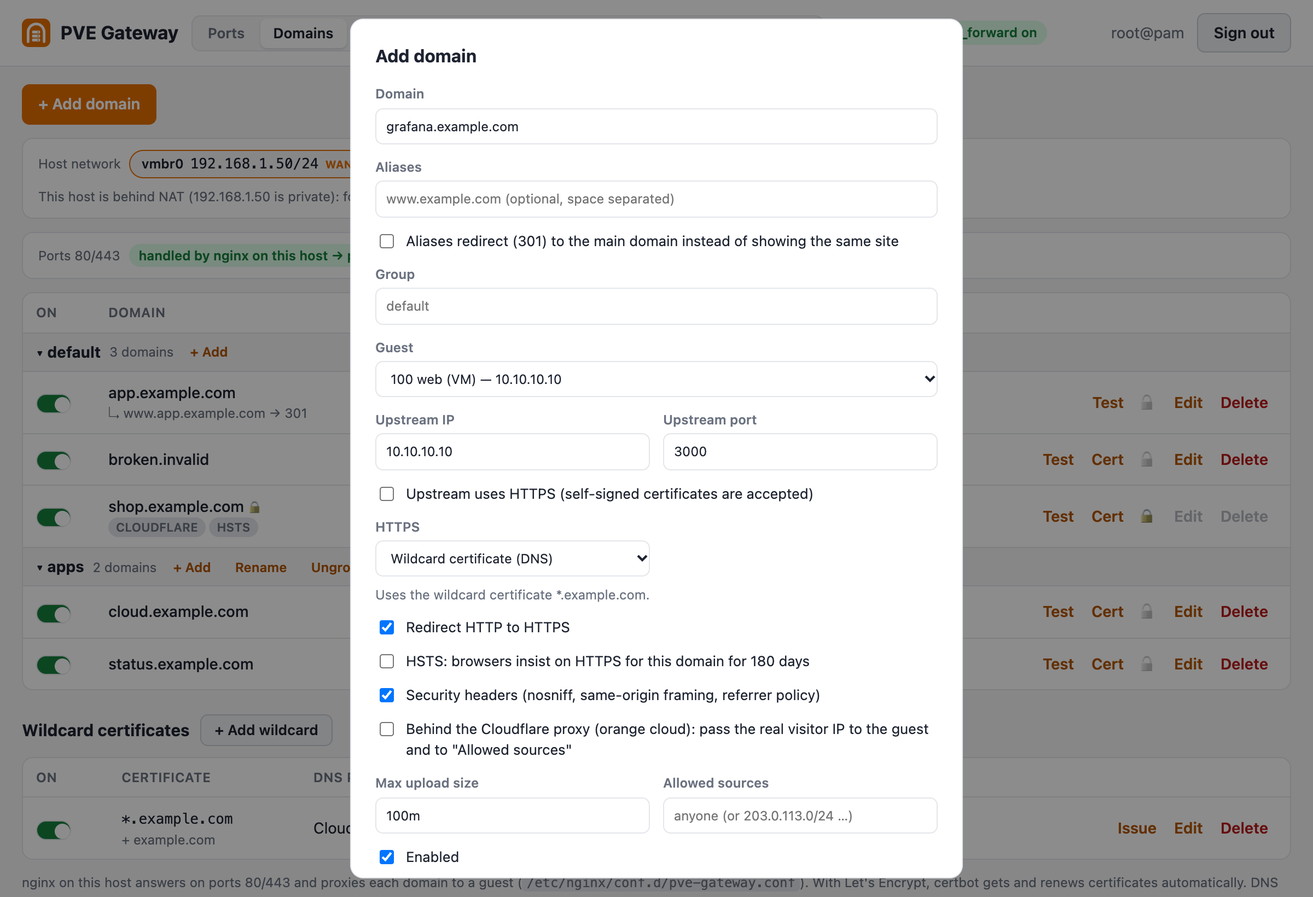
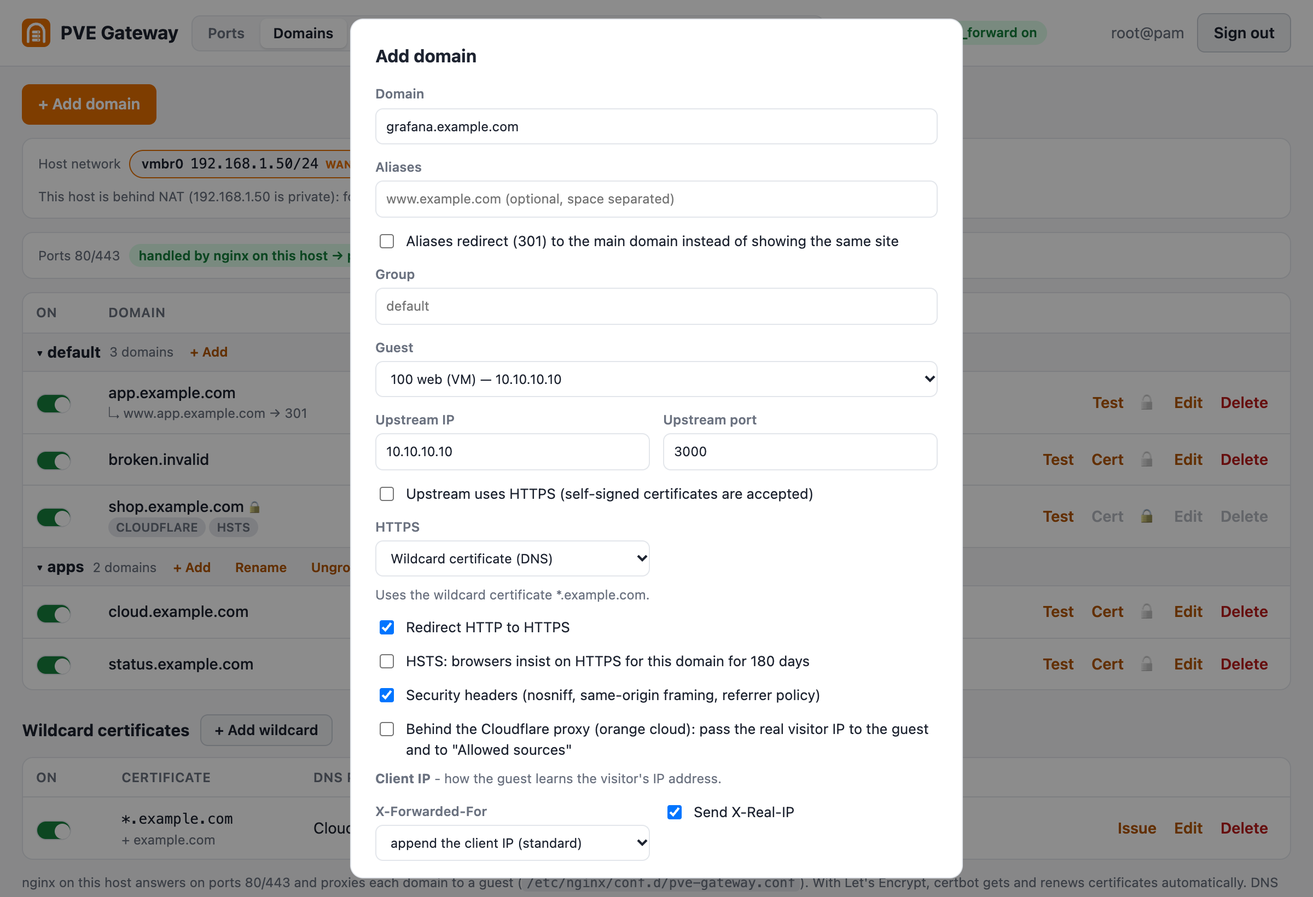
Domains: client IP settings and trusted proxies (v1.13.0)
- Per domain: X-Forwarded-For append (default) / replace with the client IP /
  off, X-Real-IP on (default) / off (a client-sent value is dropped), and an
  optional extra header (e.g. True-Client-IP) carrying the client IP
- Trusted proxies: IPs/CIDRs + header (default X-Forwarded-For) ->
  set_real_ip_from / real_ip_header / real_ip_recursive, so logs, the guest
  and "Allowed sources" see the visitor; combined with "Behind Cloudflare"
  when both use CF-Connecting-IP; 0.0.0.0/0 is refused
- Domain test: "client IP" step; "behind proxy" tag in the domain list
- RU/UZ translations, README in 3 languages, screenshots

Changed region(s): [[0.2812, 0.8396, 0.4375, 0.964], [0.5, 0.8396, 0.6562, 0.9329]]

diff --git a/pve-gateway.py b/pve-gateway.py
@@ -46,7 +46,7 @@ from collections import deque
 from concurrent.futures import ThreadPoolExecutor
 from http.server import BaseHTTPRequestHandler, ThreadingHTTPServer
 
-VERSION = "1.12.1"  # semantic version; bump it (and CHANGELOG.md) with every user-visible change
+VERSION = "1.13.0"  # semantic version; bump it (and CHANGELOG.md) with every user-visible change
 REPO_URL = "https://github.com/farruxx/pve-gateway"
 REPO_RAW = "https://raw.githubusercontent.com/farruxx/pve-gateway"
 CONF_DIR = os.environ.get("PVE_GATEWAY_DIR") or "/etc/pve-gateway"
@@ -857,6 +857,40 @@ def _names(d):
     return [d["domain"]] + d["aliases"]
 
 
+HEADER_RE = re.compile(r"^[A-Za-z0-9][A-Za-z0-9-]{0,39}$")
+RESERVED_HEADERS = {"host", "connection", "upgrade", "content-length", "transfer-encoding", "x-real-ip",
+                    "x-forwarded-for", "x-forwarded-proto", "x-forwarded-host"}
+
+
+def validate_client_ip(d, data):
+    """How the visitor's IP reaches the guest: headers nginx sends, and proxies in front that nginx trusts."""
+    d["ip_real"] = bool(data.get("ip_real", True))                     # X-Real-IP
+    d["ip_xff"] = str(data.get("ip_xff", "append") or "append")       # X-Forwarded-For
+    if d["ip_xff"] not in ("append", "replace", "off"):
+        raise ApiError("X-Forwarded-For must be append, replace or off")
+    d["ip_header"] = str(data.get("ip_header", "") or "").strip()     # extra header, e.g. True-Client-IP
+    if d["ip_header"] and (not HEADER_RE.match(d["ip_header"]) or d["ip_header"].lower() in RESERVED_HEADERS):
+        raise ApiError("extra client IP header: a header name like True-Client-IP or CF-Connecting-IP "
+                       "(not Host, X-Real-IP, X-Forwarded-For ...)")
+    proxies = data.get("trusted_proxies", [])
+    d["trusted_proxies"] = []
+    for c in re.split(r"[\s,]+", proxies) if isinstance(proxies, str) else proxies:
+        c = str(c).strip()
+        if c:
+            try:
+                d["trusted_proxies"].append(str(ipaddress.ip_network(c, strict=False)))
+            except ValueError:
+                raise ApiError("invalid trusted proxy '%s' (IP or CIDR)" % c)
+    if any(ipaddress.ip_network(c).prefixlen == 0 for c in d["trusted_proxies"]):
+        raise ApiError("trusting every address would let anyone fake their IP - list only your proxies' IPs")
+    d["trusted_header"] = str(data.get("trusted_header", "") or "").strip() or "X-Forwarded-For"
+    if not HEADER_RE.match(d["trusted_header"]):
+        raise ApiError("header of the trusted proxies: a header name like X-Forwarded-For or X-Real-IP")
+    if d["trusted_proxies"] and d.get("cloudflare") and d["trusted_header"].lower() != "cf-connecting-ip":
+        raise ApiError("with 'Behind Cloudflare' the client IP comes from CF-Connecting-IP - set the trusted proxies' "
+                       "header to CF-Connecting-IP, or turn one of them off")
+
+
 def validate_domain(data, others, cfg, did=None, check_rules=True):
     if not isinstance(data, dict):
         raise ApiError("domain must be an object")
@@ -918,6 +952,7 @@ def validate_domain(data, others, cfg, did=None, check_rules=True):
             except ValueError:
                 raise ApiError("invalid source '%s' (IP or CIDR)" % c)
     d["enabled"] = bool(data.get("enabled", True))
+    validate_client_ip(d, data)
 
     taken = {n: o for o in others for n in _names(o)}
     for n in _names(d):
@@ -1107,6 +1142,28 @@ def is_cloudflare(ip):
     return any(a in ipaddress.ip_network(n) for n in CLOUDFLARE_NETS)
 
 
+def client_ip_headers(d):
+    """$remote_addr is the visitor (after real_ip, when proxies in front are trusted)."""
+    out = ["        proxy_set_header X-Real-IP $remote_addr;"] if d.get("ip_real", True) else \
+        ["        proxy_set_header X-Real-IP \"\";"]  # don't pass on a value the client sent
+    xff = d.get("ip_xff", "append")
+    out.append("        proxy_set_header X-Forwarded-For %s;" % {"append": "$proxy_add_x_forwarded_for",
+                                                                 "replace": "$remote_addr", "off": '""'}[xff])
+    if d.get("ip_header"):
+        out.append("        proxy_set_header %s $remote_addr;" % d["ip_header"])
+    return out
+
+
+def nginx_real_ip(d):
+    """real_ip lines for a server block: Cloudflare and / or the domain's trusted proxies."""
+    nets = (CLOUDFLARE_NETS if d.get("cloudflare") else []) + d.get("trusted_proxies", [])
+    if not nets:
+        return []
+    header = "CF-Connecting-IP" if d.get("cloudflare") else d.get("trusted_header") or "X-Forwarded-For"
+    return ["    set_real_ip_from %s;" % n for n in nets] + ["    real_ip_header %s;" % header] + \
+        (["    real_ip_recursive on;"] if d.get("trusted_proxies") else [])
+
+
 def nginx_proxy_block(d, tls=False):
     up = "%s://%s:%d" % ("https" if d["upstream_https"] else "http", d["ip"], d["port"])
     lines = ["    client_max_body_size %s;" % d["max_body"], "", "    location / {"]
@@ -1115,8 +1172,7 @@ def nginx_proxy_block(d, tls=False):
         "        proxy_pass %s;" % up,
         "        proxy_http_version 1.1;",
         "        proxy_set_header Host $host;",
-        "        proxy_set_header X-Real-IP $remote_addr;",
-        "        proxy_set_header X-Forwarded-For $proxy_add_x_forwarded_for;",
+    ] + client_ip_headers(d) + [
         "        proxy_set_header X-Forwarded-Proto $scheme;",
         "        proxy_set_header X-Forwarded-Host $host;",
         "        proxy_set_header Upgrade $http_upgrade;",
@@ -1158,8 +1214,7 @@ def build_nginx(cfg):
         crt, key = cert_paths(cfg, cname) if tls else (None, None)
         ssl = ["    ssl_certificate %s;" % crt, "    ssl_certificate_key %s;" % key, "    ssl_protocols TLSv1.2 TLSv1.3;",
                "    ssl_session_cache shared:pvegw_ssl:10m;", "    ssl_session_timeout 1d;"] if tls else []
-        realip = (["    set_real_ip_from %s;" % n for n in CLOUDFLARE_NETS] +
-                  ["    real_ip_header CF-Connecting-IP;"]) if d.get("cloudflare") else []
+        realip = nginx_real_ip(d)
         redirect_aliases = d.get("alias_redirect") and d["aliases"]
         names = d["domain"] if redirect_aliases else " ".join(_names(d))
         out += ["", "# %s -> %s:%d  (id %s)" % (d["domain"], d["ip"], d["port"], d["id"]),
@@ -1784,6 +1839,14 @@ def test_domain(d):
     except OSError:
         present = False
     add("in nginx config", _st(present or not d["enabled"]), cfg["nginx_conf"])
+    sent = [h for h, on in (("X-Real-IP", d.get("ip_real", True)), ("X-Forwarded-For", d.get("ip_xff", "append") != "off"),
+                            (d.get("ip_header"), bool(d.get("ip_header")))) if on]
+    detail = ("sent to the guest as %s" % ", ".join(sent)) if sent else "not sent to the guest"
+    if d.get("ip_xff") == "replace":
+        detail += " (X-Forwarded-For holds only the client IP)"
+    if d.get("trusted_proxies"):
+        detail += "; taken from %s when the request comes from %s" % (d["trusted_header"], ", ".join(d["trusted_proxies"]))
+    add("client IP", "info", detail)
     if d["enabled"] and out.strip() == "active":
         problems = acme_preflight(cfg, _names(d))
         add("reachable like Let's Encrypt", _st(not problems), "; ".join(problems) + other_sites_hint(cfg, _names(d)) if problems else
@@ -6564,6 +6627,33 @@ I18N = {
     "— pick a guest to fill its IP —": ["— выберите гостя, чтобы подставить его IP —", "— IP manzilini toʻldirish uchun mehmonni tanlang —"],
     "▸ default": ["▸ по умолчанию", "▸ standart"],
     "▾ default": ["▾ по умолчанию", "▾ standart"],
+    "Client IP": ["IP клиента", "Mijoz IP manzili"],
+    "- how the guest learns the visitor's IP address.": ["- как гостевая система узнаёт IP-адрес посетителя.", "- mehmon tizim tashrifchining IP manzilini qanday bilishi."],
+    "append the client IP (standard)": ["добавить IP клиента (стандартно)", "mijoz IP manzilini qoʻshish (standart)"],
+    "only the client IP (can't be faked)": ["только IP клиента (нельзя подделать)", "faqat mijoz IP manzili (soxtalashtirib boʻlmaydi)"],
+    "don't send": ["не отправлять", "yubormaslik"],
+    "Send X-Real-IP": ["Отправлять X-Real-IP", "X-Real-IP yuborish"],
+    "Also send the client IP as": ["Также отправлять IP клиента в заголовке", "Mijoz IP manzilini quyidagi sarlavhada ham yuborish"],
+    "optional, e.g. True-Client-IP": ["необязательно, например True-Client-IP", "ixtiyoriy, masalan True-Client-IP"],
+    "Trusted proxies in front of this host": ["Доверенные прокси перед этим хостом", "Ushbu xost oldidagi ishonchli proksilar"],
+    "optional, e.g. 10.20.0.2 192.0.2.0/24": ["необязательно, например 10.20.0.2 192.0.2.0/24", "ixtiyoriy, masalan 10.20.0.2 192.0.2.0/24"],
+    "Their header with the client IP": ["Их заголовок с IP клиента", "Ulardagi mijoz IP sarlavhasi"],
+    "Requests from these proxies are taken to come from the IP in that header - for the guest, the logs and \"Allowed sources\". Only list proxies you control: anyone else could fake their IP.": ["Запросы от этих прокси считаются пришедшими с IP из этого заголовка - для гостевой системы, журналов и \"Разрешённых источников\". Указывайте только свои прокси: любой другой сможет подделать свой IP.", "Ushbu proksilardan kelgan soʻrovlar shu sarlavhadagi IP dan kelgan deb hisoblanadi - mehmon tizim, jurnallar va \"Ruxsat etilgan manbalar\" uchun. Faqat oʻzingiz boshqaradigan proksilarni kiriting: boshqa har kim oʻz IP manzilini soxtalashtirishi mumkin."],
+    "behind proxy": ["за прокси", "proksi ortida"],
+    "client IP from {0} of {1}": ["IP клиента из {0} от {1}", "{1} ning {0} sarlavhasidan mijoz IP"],
+    "X-Forwarded-For must be append, replace or off": ["X-Forwarded-For: append, replace или off", "X-Forwarded-For: append, replace yoki off boʻlishi kerak"],
+    "extra client IP header: a header name like True-Client-IP or CF-Connecting-IP (not Host, X-Real-IP, X-Forwarded-For ...)": ["дополнительный заголовок с IP клиента: имя заголовка, например True-Client-IP или CF-Connecting-IP (не Host, X-Real-IP, X-Forwarded-For ...)", "qoʻshimcha mijoz IP sarlavhasi: True-Client-IP yoki CF-Connecting-IP kabi sarlavha nomi (Host, X-Real-IP, X-Forwarded-For ... emas)"],
+    "invalid trusted proxy '{0}' (IP or CIDR)": ["неверный доверенный прокси '{0}' (IP или CIDR)", "notoʻgʻri ishonchli proksi '{0}' (IP yoki CIDR)"],
+    "trusting every address would let anyone fake their IP - list only your proxies' IPs": ["доверие всем адресам позволит любому подделать свой IP - укажите только IP своих прокси", "barcha manzillarga ishonish har kimga IP manzilini soxtalashtirish imkonini beradi - faqat proksilaringiz IP manzillarini kiriting"],
+    "header of the trusted proxies: a header name like X-Forwarded-For or X-Real-IP": ["заголовок доверенных прокси: имя заголовка, например X-Forwarded-For или X-Real-IP", "ishonchli proksilar sarlavhasi: X-Forwarded-For yoki X-Real-IP kabi sarlavha nomi"],
+    "with 'Behind Cloudflare' the client IP comes from CF-Connecting-IP - set the trusted proxies' header to CF-Connecting-IP, or turn one of them off": ["с опцией 'За Cloudflare' IP клиента берётся из CF-Connecting-IP - укажите для доверенных прокси заголовок CF-Connecting-IP или выключите одно из двух", "'Cloudflare ortida' yoqilganda mijoz IP CF-Connecting-IP dan olinadi - ishonchli proksilar sarlavhasini CF-Connecting-IP qiling yoki ulardan birini oʻchiring"],
+    "client IP": ["IP клиента", "mijoz IP manzili"],
+    "sent to the guest as {0}": ["передаётся гостевой системе как {0}", "mehmon tizimga {0} sifatida yuboriladi"],
+    "sent to the guest as {0} (X-Forwarded-For holds only the client IP)": ["передаётся гостевой системе как {0} (в X-Forwarded-For только IP клиента)", "mehmon tizimga {0} sifatida yuboriladi (X-Forwarded-For da faqat mijoz IP)"],
+    "sent to the guest as {0}; taken from {1} when the request comes from {2}": ["передаётся гостевой системе как {0}; берётся из {1}, если запрос приходит от {2}", "mehmon tizimga {0} sifatida yuboriladi; soʻrov {2} dan kelsa, {1} dan olinadi"],
+    "sent to the guest as {0} (X-Forwarded-For holds only the client IP); taken from {1} when the request comes from {2}": ["передаётся гостевой системе как {0} (в X-Forwarded-For только IP клиента); берётся из {1}, если запрос приходит от {2}", "mehmon tizimga {0} sifatida yuboriladi (X-Forwarded-For da faqat mijoz IP); soʻrov {2} dan kelsa, {1} dan olinadi"],
+    "not sent to the guest": ["не передаётся гостевой системе", "mehmon tizimga yuborilmaydi"],
+    "not sent to the guest; taken from {0} when the request comes from {1}": ["не передаётся гостевой системе; берётся из {0}, если запрос приходит от {1}", "mehmon tizimga yuborilmaydi; soʻrov {1} dan kelsa, {0} dan olinadi"],
 }
 
 
@@ -6871,6 +6961,15 @@ INDEX_HTML = r"""<!doctype html>
       <label class="check wide tls-on"><input type="checkbox" name="hsts"> HSTS: browsers insist on HTTPS for this domain for 180 days</label>
       <label class="check wide"><input type="checkbox" name="headers" checked> Security headers (nosniff, same-origin framing, referrer policy)</label>
       <label class="check wide"><input type="checkbox" name="cloudflare"> Behind the Cloudflare proxy (orange cloud): pass the real visitor IP to the guest and to "Allowed sources"</label>
+      <p class="hint wide"><b>Client IP</b> - how the guest learns the visitor's IP address.</p>
+      <label>X-Forwarded-For<select name="ip_xff"><option value="append">append the client IP (standard)</option>
+        <option value="replace">only the client IP (can't be faked)</option><option value="off">don't send</option></select></label>
+      <label class="check"><input type="checkbox" name="ip_real" checked> Send X-Real-IP</label>
+      <label>Also send the client IP as<input name="ip_header" placeholder="optional, e.g. True-Client-IP" spellcheck="false" autocomplete="off"></label>
+      <label>Trusted proxies in front of this host<input name="trusted_proxies" placeholder="optional, e.g. 10.20.0.2 192.0.2.0/24" spellcheck="false" autocomplete="off"></label>
+      <label class="proxy-only">Their header with the client IP<input name="trusted_header" placeholder="X-Forwarded-For" spellcheck="false" autocomplete="off"></label>
+      <p class="hint wide proxy-only">Requests from these proxies are taken to come from the IP in that header - for the guest, the logs and
+        "Allowed sources". Only list proxies you control: anyone else could fake their IP.</p>
       <label>Max upload size<input name="max_body" value="100m" placeholder="100m, 2g, 0 = unlimited"></label>
       <label>Allowed sources<input name="source" placeholder="anyone (or 203.0.113.0/24 …)"></label>
       <label class="check wide"><input type="checkbox" name="enabled" checked> Enabled</label>
@@ -7677,8 +7776,9 @@ function domainRow(d) {
       el('td', {class: 'names'}, el('a', {href: (d.tls !== 'none' ? 'https://' : 'http://') + d.domain, target: '_blank', rel: 'noopener', textContent: d.domain}),
         d.locked ? el('span', {class: 'lock-mark', textContent: ' 🔒', title: 'locked'}) : null,
         ...d.aliases.map(a => el('span', {class: 'alias', textContent: d.alias_redirect ? '↳ ' + a + ' → 301' : a})),
-        (d.cloudflare || d.hsts) ? el('span', {class: 'alias'},
+        (d.cloudflare || d.hsts || (d.trusted_proxies && d.trusted_proxies.length)) ? el('span', {class: 'alias'},
           d.cloudflare ? el('span', {class: 'tag', textContent: 'cloudflare'}) : null, ' ',
+          d.trusted_proxies && d.trusted_proxies.length ? el('span', {class: 'tag', title: 'client IP from ' + d.trusted_header + ' of ' + d.trusted_proxies.join(', '), textContent: 'behind proxy'}) : null, ' ',
           d.hsts ? el('span', {class: 'tag', textContent: 'hsts'}) : null) : null),
       el('td', {class: 'arrow', textContent: '→'}),
       el('td', {class: 'mono', textContent: (d.upstream_https ? 'https://' : 'http://') + d.ip + ':' + d.port}),
@@ -7729,6 +7829,9 @@ function openDomDlg(d, group) {
   f.ip.value = d.ip || ''; f.port.value = d.port || 80; f.upstream_https.checked = !!d.upstream_https;
   f.tls.value = d.tls; f.force_https.checked = d.force_https !== false; f.max_body.value = d.max_body || '100m';
   f.source.value = (d.source || []).join(' '); f.enabled.checked = d.enabled !== false;
+  f.ip_xff.value = d.ip_xff || 'append'; f.ip_real.checked = d.ip_real !== false; f.ip_header.value = d.ip_header || '';
+  f.trusted_proxies.value = (d.trusted_proxies || []).join(' ');
+  f.trusted_header.value = d.trusted_header && d.trusted_header !== 'X-Forwarded-For' ? d.trusted_header : ''; proxyFields();
   f.acme_email.value = S.acme_email || '';
   toggleLe();
   $('#domDlg').showModal();
@@ -7756,11 +7859,15 @@ $('#domForm').upstream_https.addEventListener('change', e => {
   const p = $('#domForm').port; if (e.target.checked && p.value === '80') p.value = '443'; else if (!e.target.checked && p.value === '443') p.value = '80';
 });
 $('#domForm').guest.addEventListener('change', () => pickGuest($('#domForm'), false));
+function proxyFields() { for (const x of document.querySelectorAll('#domForm .proxy-only')) x.hidden = !$('#domForm').trusted_proxies.value.trim(); }
+$('#domForm').trusted_proxies.addEventListener('input', proxyFields);
 $('#domForm').addEventListener('submit', async e => {
   e.preventDefault();
   const f = e.target, d = {};
   for (const k of ['domain', 'aliases', 'ip', 'port', 'tls', 'max_body', 'source', 'acme_email', 'group']) d[k] = f[k].value.trim();
   d.upstream_https = f.upstream_https.checked; d.force_https = f.force_https.checked; d.enabled = f.enabled.checked;
+  d.ip_xff = f.ip_xff.value; d.ip_real = f.ip_real.checked; d.ip_header = f.ip_header.value.trim();
+  d.trusted_proxies = f.trusted_proxies.value.trim(); d.trusted_header = f.trusted_header.value.trim();
   for (const k of ['alias_redirect', 'hsts', 'headers', 'cloudflare']) d[k] = f[k].checked;
   if (!await ask((editingDom ? 'Save changes to ' : 'Add domain ') + d.domain + '?', d.domain + ' → ' + (d.upstream_https ? 'https://' : 'http://') +
     d.ip + ':' + d.port + '. nginx is reloaded' + (d.tls === 'letsencrypt' && d.enabled && !editingDom ? ' and a certificate is requested if needed.' : '.'), editingDom ? 'Save' : 'Add')) return;

diff --git a/README.ru.md b/README.ru.md
@@ -104,6 +104,7 @@ IP всегда можно ввести вручную.
   - **заголовки безопасности** (nosniff, встраивание только с того же источника, referrer policy);
   - максимальный размер загрузки и разрешённые IP/CIDR источников;
   - **За Cloudflare**: для доменов за «оранжевым облаком» nginx доверяет диапазонам адресов Cloudflare, поэтому журналы, гостевая система и *Разрешённые источники* видят реальный IP посетителя.
+  - **IP клиента**: гостевая система получает IP посетителя в `X-Real-IP` и `X-Forwarded-For` (добавляется, как обычно). Вместо этого `X-Forwarded-For` может содержать **только IP клиента** (тогда клиент не подделает предыдущий узел) или быть выключен. IP можно также передавать в ещё одном заголовке, например `True-Client-IP`. **Доверенные прокси** нужны, когда на этот хост пересылает другой прокси или балансировщик: укажите его IP и заголовок, который он использует (по умолчанию `X-Forwarded-For`), и nginx будет использовать реальный IP посетителя для журналов, гостевой системы и *Разрешённых источников*. Указывайте только свои прокси.
 
   WebSocket работает всегда.
 - **Проверка** смотрит DNS (записи A, AAAA и проксируемые через Cloudflare), nginx и бэкенд. Она также проверяет сертификат, который nginx **фактически отдаёт**: он должен покрывать все имена, не быть близким к истечению и совпадать для IPv4 и IPv6. Псевдонимы с перенаправлением должны отвечать кодом 301.

diff --git a/README.uz.md b/README.uz.md
@@ -104,6 +104,7 @@ IP manzilni har doim qoʻlda kiritishingiz mumkin.
   - **xavfsizlik sarlavhalari** (nosniff, same-origin framing, referrer policy);
   - maksimal yuklash hajmi va ruxsat etilgan manba IP/CIDR lar;
   - **Cloudflare ortida**: toʻq sariq bulut ortidagi domenlar uchun nginx Cloudflare manzil diapazonlariga ishonadi, shunda loglar, mehmon tizim va *Ruxsat etilgan manbalar* tashrif buyuruvchining haqiqiy IP manzilini koʻradi.
+  - **Mijoz IP manzili**: mehmon tizim tashrif buyuruvchining IP manzilini `X-Real-IP` va `X-Forwarded-For` da oladi (odatdagidek qoʻshiladi). Buning oʻrniga `X-Forwarded-For` da **faqat mijoz IP** boʻlishi (shunda mijoz oldingi tugunni soxtalashtira olmaydi) yoki u oʻchirilishi mumkin. IP manzilni yana bitta sarlavhada ham yuborish mumkin, masalan `True-Client-IP`. **Ishonchli proksilar** bu xostga boshqa proksi yoki yuk taqsimlagich yoʻnaltirganda kerak: uning IP manzillari va ishlatadigan sarlavhasini kiriting (standart `X-Forwarded-For`), shunda nginx loglar, mehmon tizim va *Ruxsat etilgan manbalar* uchun haqiqiy IP manzildan foydalanadi. Faqat oʻzingiz boshqaradigan proksilarni kiriting.
 
   WebSocket lar har doim ishlaydi.
 - **Tekshirish** DNS (A, AAAA va Cloudflare orqali proksilangan yozuvlar), nginx va upstream ni tekshiradi. Shuningdek, nginx **haqiqatda taqdim etayotgan** sertifikatni ham tekshiradi: u barcha nomlarni qamrashi, muddati tugashiga yaqin boʻlmasligi va IPv4 hamda IPv6 orqali bir xil boʻlishi kerak. Qayta yoʻnaltirishga sozlangan taxalluslar 301 bilan javob berishi shart.

diff --git a/CHANGELOG.md b/CHANGELOG.md
@@ -4,6 +4,15 @@ All notable changes to pve-gateway. Versions follow [semantic versioning](https:
 `VERSION` in `pve-gateway.py`. The **Update** button in Settings (and `pve-gateway update`) installs the latest version
 from GitHub and shows the entries below that are newer than the installed one.
 
+## 1.13.0 - 2026-11-03
+- Domains: Client IP settings. X-Forwarded-For can be appended (as before), replaced with only the client IP (clients
+  can't fake earlier hops) or left out; X-Real-IP can be turned off (a client-sent value is then dropped, not passed
+  on); the IP can also go in an extra header such as True-Client-IP. Defaults are unchanged.
+- Trusted proxies per domain: when another proxy / load balancer forwards to this host, list its IPs and header
+  (default X-Forwarded-For) and nginx uses the real visitor IP for logs, the guest and "Allowed sources"
+  (set_real_ip_from + real_ip_recursive). Works together with "Behind Cloudflare" when both use CF-Connecting-IP.
+- Domain test: a "client IP" step that says which headers carry the IP and which proxies are trusted.
+
 ## 1.12.1 - 2026-10-20
 - Locked domains: the Cert button is disabled and manual certificate requests (UI, API, CLI `cert`) are refused until
   the domain is unlocked. Automatic renewals by certbot's timer keep running, and a failed request never replaces

diff --git a/README.md b/README.md
@@ -104,6 +104,7 @@ The **Domains** tab maps hostnames to guests: `cloud.example.com` → `10.10.10.
   - **security headers** (nosniff, same-origin framing, referrer policy);
   - max upload size, and allowed source IPs/CIDRs;
   - **Behind Cloudflare**: for domains behind the orange cloud, nginx trusts Cloudflare's address ranges, so logs, the guest and *Allowed sources* see the real visitor IP.
+  - **Client IP**: the guest gets the visitor's IP in `X-Real-IP` and `X-Forwarded-For` (appended, as usual). `X-Forwarded-For` can instead carry **only the client IP**, so a client can't fake an earlier hop, or be switched off. The IP can also go in one more header, such as `True-Client-IP`. **Trusted proxies** handle the case where another proxy or load balancer forwards to this host: list its IPs and the header it uses (default `X-Forwarded-For`), and nginx uses the real visitor IP for logs, the guest and *Allowed sources*. Only list proxies you control.
 
   WebSockets always work.
 - **Test** checks DNS (A, AAAA and Cloudflare-proxied records), nginx and the upstream. It also checks the certificate nginx **actually serves**: it must cover every name, not be close to expiry, and be the same over IPv4 and IPv6. Aliases set to redirect must answer with a 301.
